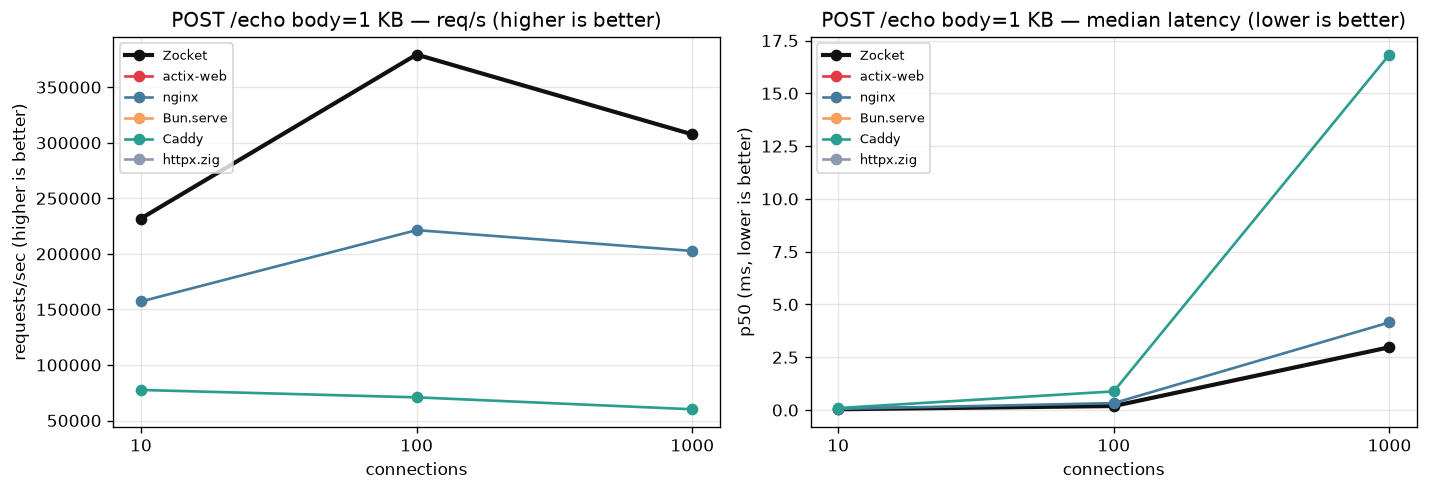
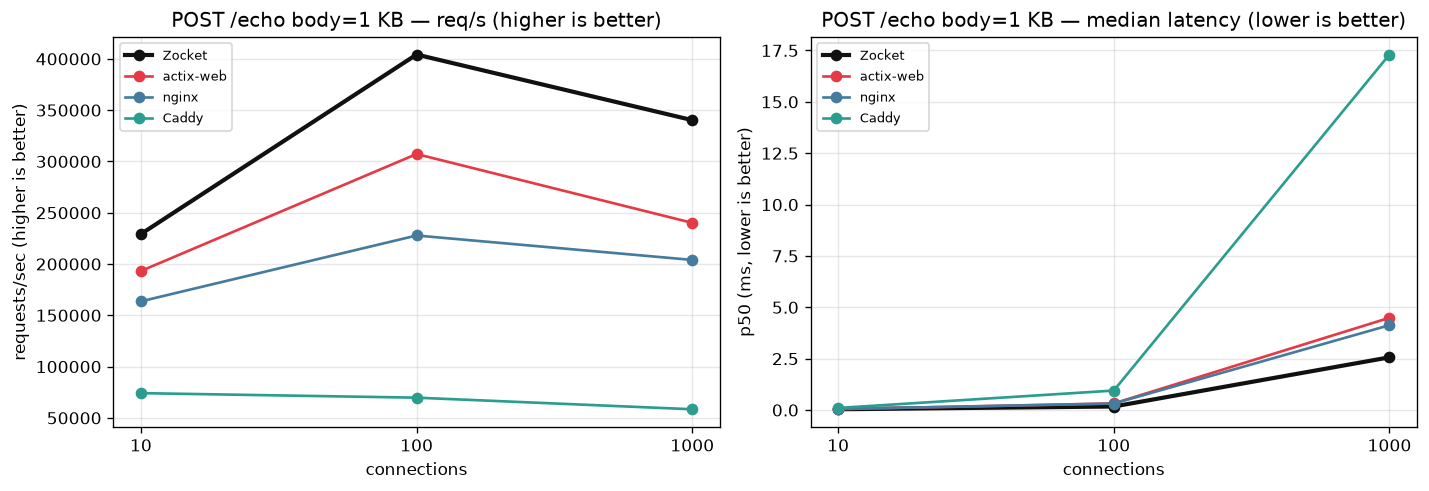
docs(bench): refresh echo-matrix table and graphs with the full five-server set

diff --git a/bench/BENCH.md b/bench/BENCH.md
@@ -49,24 +49,29 @@ python3 bench/graphs.py
 ## Echo matrix (POST, req/s)
 
 Body sizes 1 KB / 8 KB / 64 KB × connections 10 / 100 / 1000, medians of 3
-interleaved reps in both port layouts, 6 s per rep, 4 threads / 4 workers.
+interleaved reps in both port layouts, 10 s per rep, 4 threads / 4 workers.
 
 ![Matrix 1 KB](graphs/matrix_1024.png)
 ![Matrix 8 KB](graphs/matrix_8192.png)
 ![Matrix 64 KB](graphs/matrix_65536.png)
 
-| Body | Conns | Zocket | nginx | Caddy | vs nginx | vs Caddy |
-|---|---:|---:|---:|---:|---:|---:|
-| GET / | 100 | 440.0 | 385.7 | 96.9 | 1.14x | 4.54x |
-| 1 KB | 10 | 231.8 | 157.1 | 77.5 | 1.48x | 2.99x |
-| 1 KB | 100 | 379.4 | 221.4 | 70.8 | 1.71x | 5.36x |
-| 1 KB | 1000 | 307.5 | 202.6 | 60.1 | 1.52x | 5.11x |
-| 8 KB | 10 | 151.4 | 61.5 | 32.7 | 2.46x | 4.63x |
-| 8 KB | 100 | 204.2 | 80.6 | 34.0 | 2.53x | 6.00x |
-| 8 KB | 1000 | 156.2 | 101.9 | 33.5 | 1.53x | 4.67x |
-| 64 KB | 10 | 59.1 | 21.0 | 10.6 | 2.81x | 5.57x |
-| 64 KB | 100 | 44.9 | 32.9 | 11.8 | 1.37x | 3.81x |
-| 64 KB | 1000 | 43.6 | 42.1 | 13.3 | 1.04x | 3.28x |
+A complete set now runs the actix and Bun cells alongside nginx and Caddy
+(`SERVERS="tcp nginx caddy actix bun" bash bench/compare-servers.sh
+--matrix --reps 3`); every POST cell echoes real bytes on all five servers,
+so the numbers are body-for-body. Zocket leads on every cell.
+
+| Body | Conns | Zocket | actix | nginx | Caddy | Bun | vs actix | vs nginx | vs Caddy | vs Bun |
+|---|---:|---:|---:|---:|---:|---:|---:|---:|---:|---:|
+| GET / | 100 | 444.8 | 415.5 | 380.1 | 96.3 | 156.3 | 1.07x | 1.17x | 4.62x | 2.85x |
+| 1 KB | 10 | 229.2 | 192.9 | 163.0 | 74.2 | 108.7 | 1.19x | 1.41x | 3.09x | 2.11x |
+| 1 KB | 100 | 404.7 | 306.9 | 232.4 | 69.7 | 118.0 | 1.32x | 1.74x | 5.80x | 3.43x |
+| 1 KB | 1000 | 340.3 | 240.4 | 204.0 | 58.3 | 87.4 | 1.42x | 1.67x | 5.84x | 3.89x |
+| 8 KB | 10 | 143.2 | 137.3 | 55.5 | 30.9 | 73.3 | 1.04x | 2.58x | 4.63x | 1.95x |
+| 8 KB | 100 | 218.8 | 162.7 | 81.7 | 33.0 | 64.9 | 1.35x | 2.68x | 6.63x | 3.37x |
+| 8 KB | 1000 | 156.3 | 124.2 | 101.7 | 33.0 | 59.1 | 1.26x | 1.54x | 4.74x | 2.65x |
+| 64 KB | 10 | 58.2 | 41.0 | 19.1 | 9.6 | 32.5 | 1.42x | 3.06x | 6.09x | 1.79x |
+| 64 KB | 100 | 47.1 | 39.6 | 30.3 | 10.6 | 28.0 | 1.19x | 1.55x | 4.43x | 1.68x |
+| 64 KB | 1000 | 42.4 | 35.4 | 38.1 | 11.2 | 24.9 | 1.20x | 1.11x | 3.80x | 1.70x |
 
 Numbers are req/s × 1000. actix-web, Bun.serve cells require
 toolchains that are not installed on this machine; `SERVERS=` selects the
